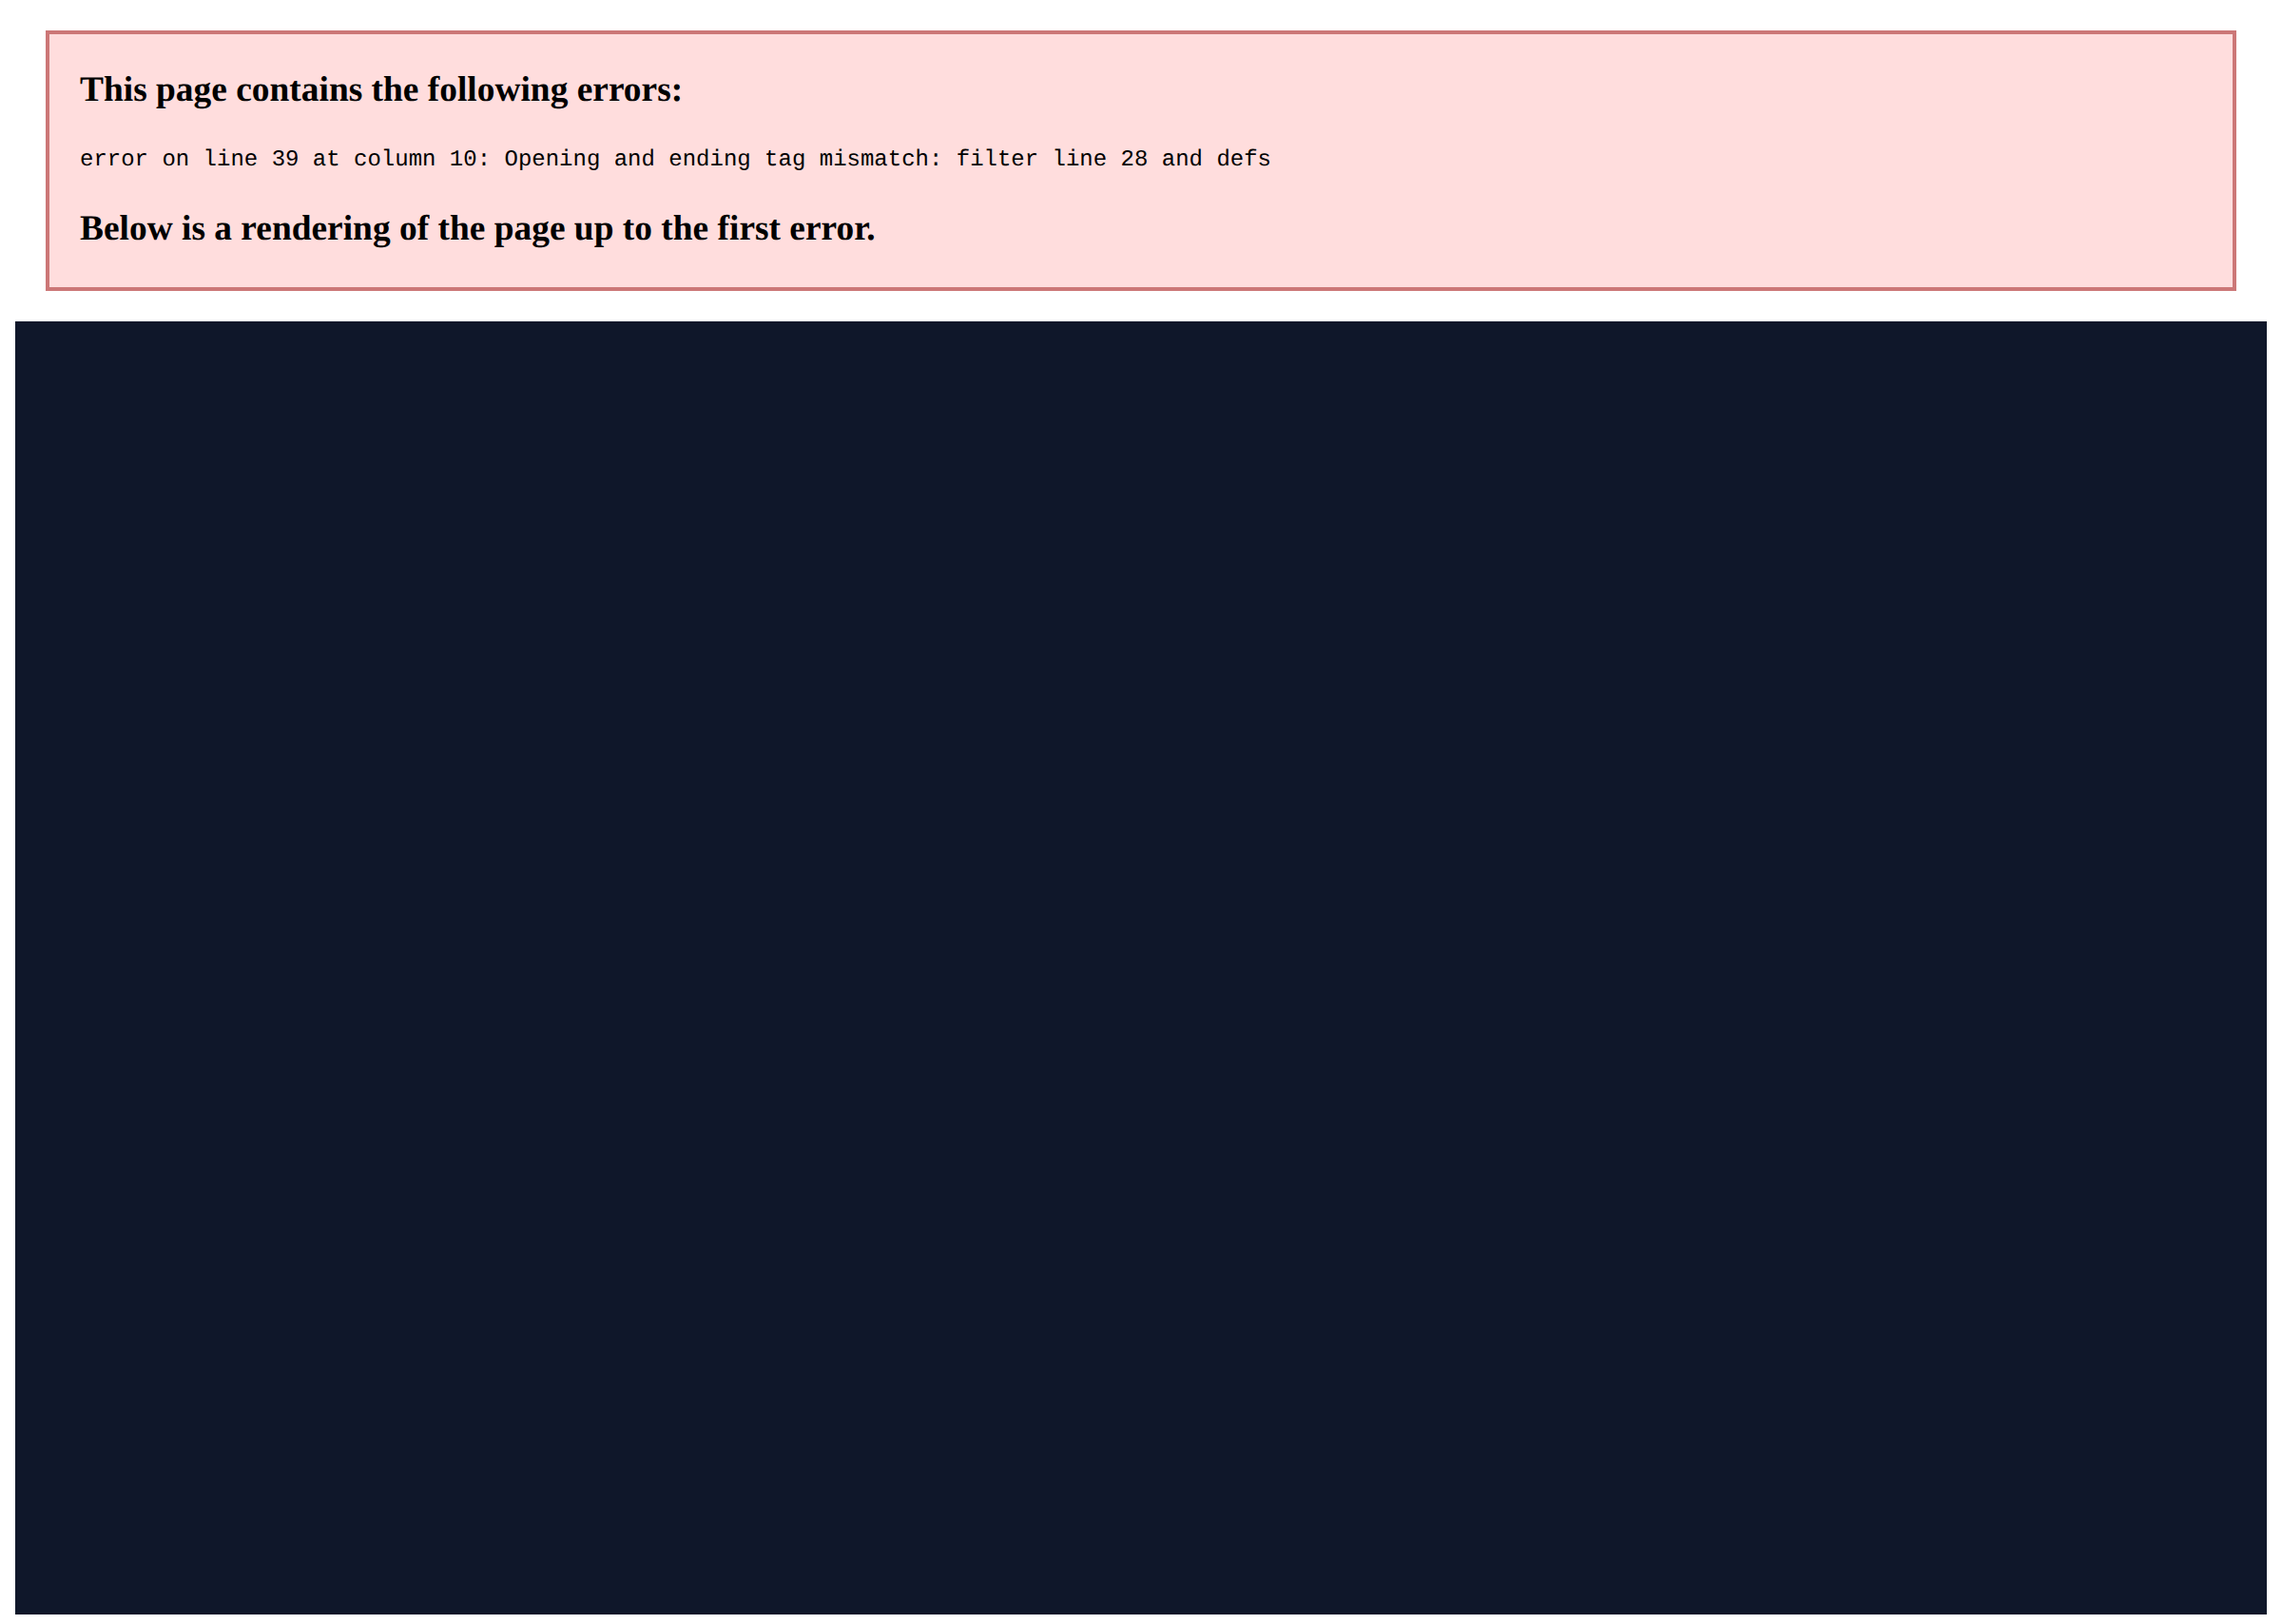
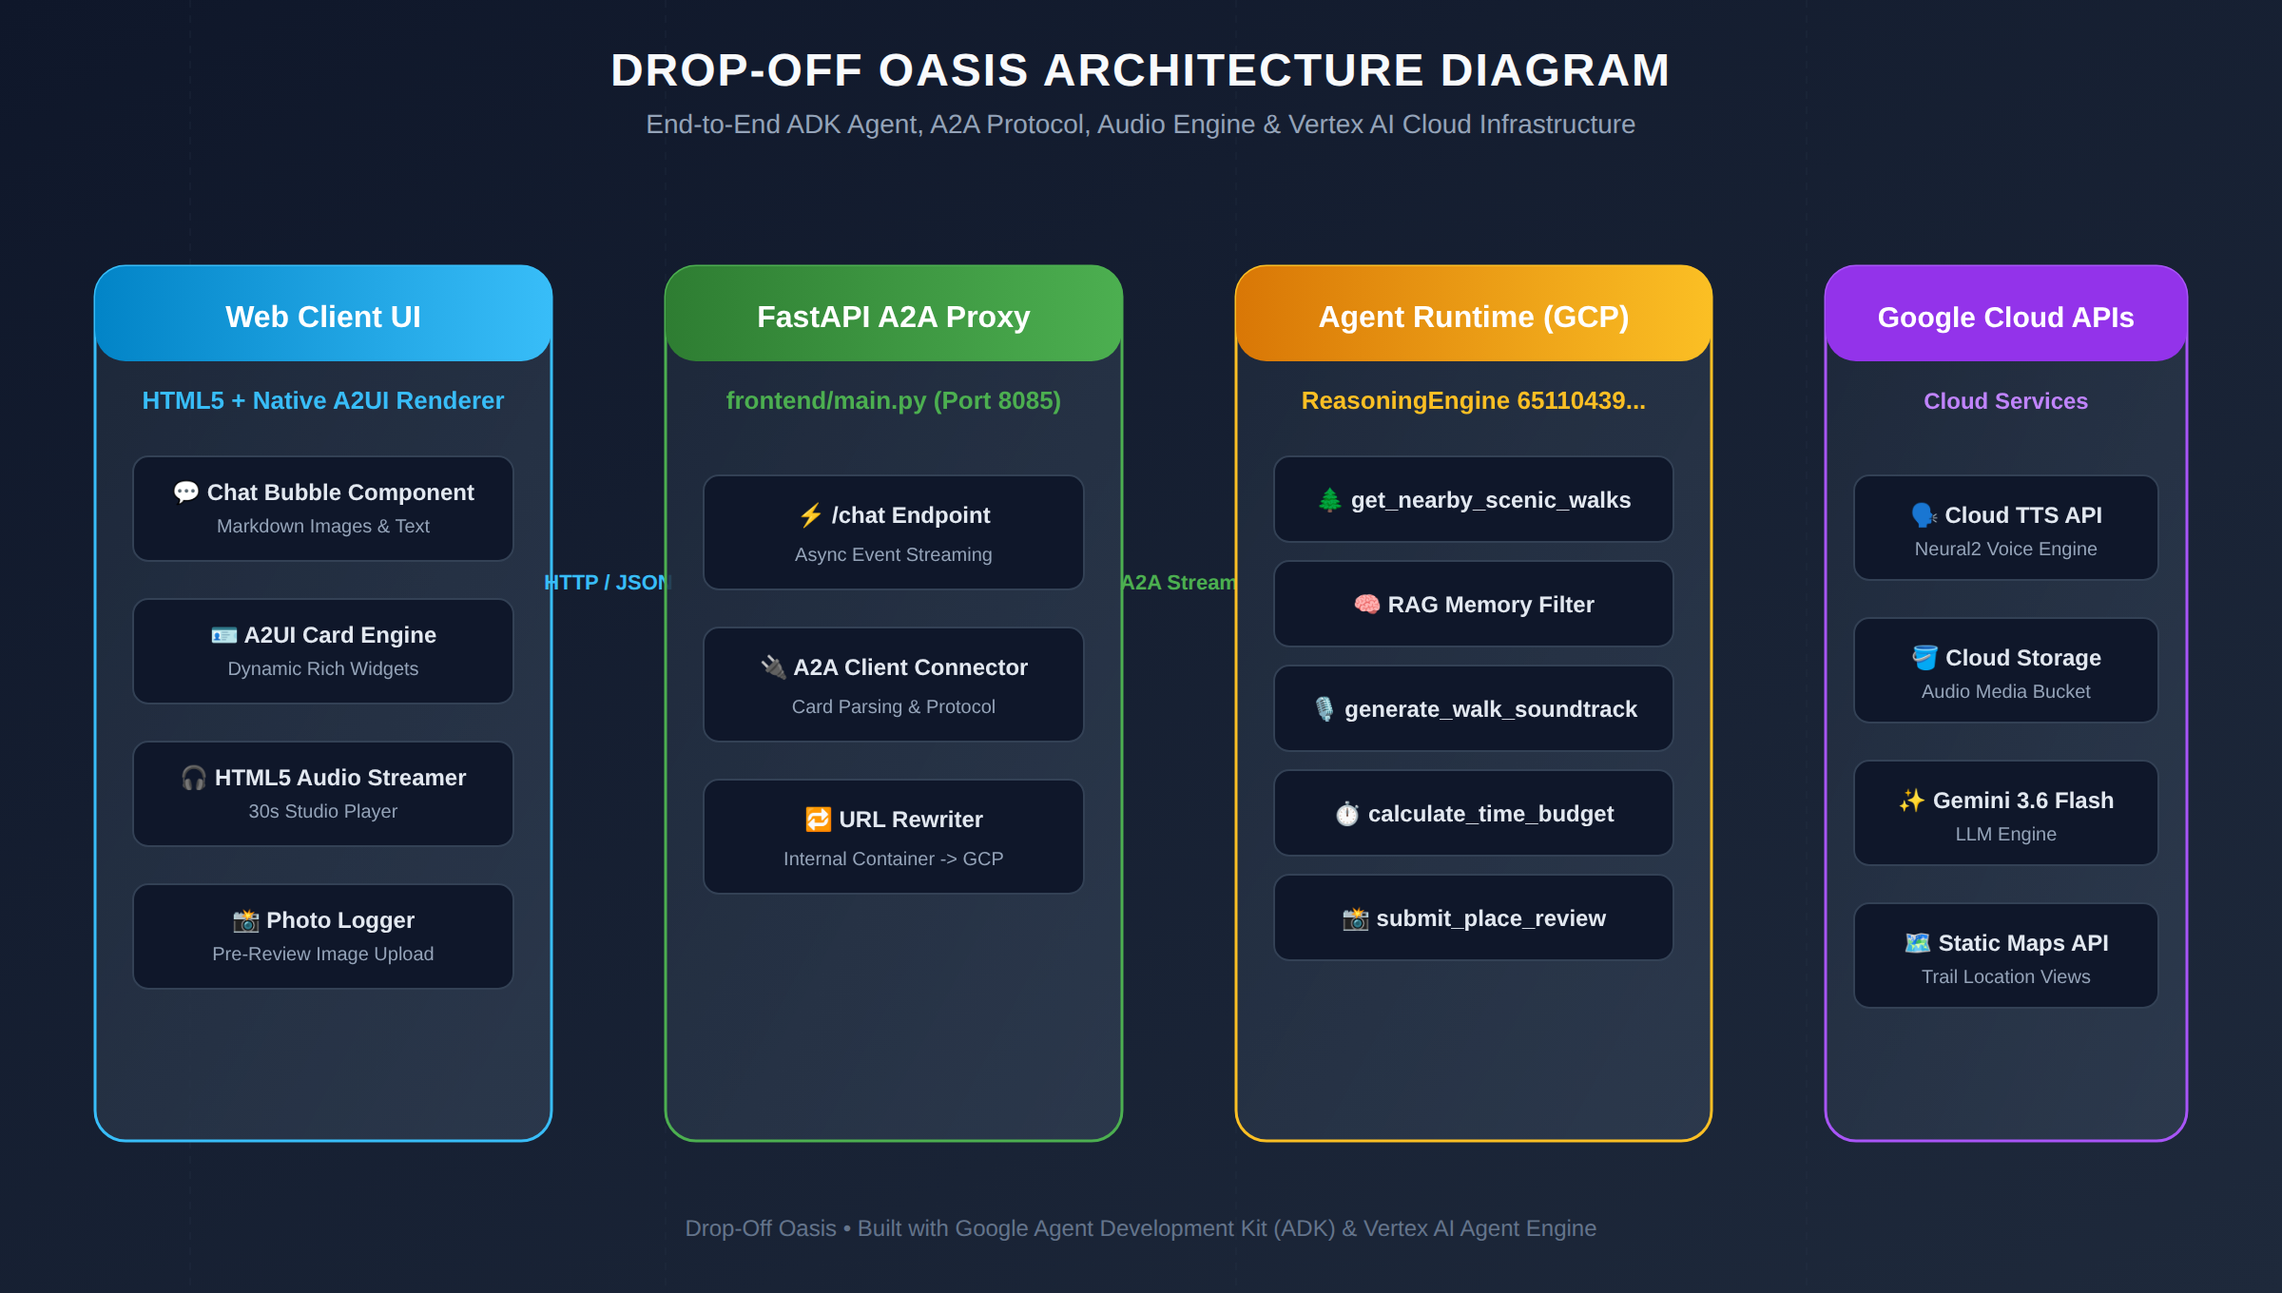
Fix SVG XML syntax errors (line 39 unclosed filter & ampersands) and update HD PNG diagrams & Gemini AI music songs

diff --git a/app/agent.py b/app/agent.py
@@ -247,7 +247,7 @@ def generate_walk_soundtrack(
             "> *ಹಸನ್ಮುಖಿಯಿಂದ ಪ್ರಕೃತಿಯ ಆನಂದಿಸಿ!\"*\n\n"
             "*(Translation: 'A joyful day amidst the forest, walk dancing to the birdsong! Fresh energy at every step, enjoy nature with a glowing smile!')*"
         )
-        audio_url = "https://storage.googleapis.com/drop-off-oasis-media-688258816137/audio/lyria_song_kannada_happy.mp3"
+        audio_url = "https://storage.googleapis.com/drop-off-oasis-media-688258816137/audio/gemini_lyria_song_kannada.mp3"
     elif "hindi" in lang_key or "hi" in lang_key:
         matched_lang = "Hindi"
         lyric_display = (
@@ -258,7 +258,7 @@ def generate_walk_soundtrack(
             "> *प्रकृति संग मनाएं खुशियों का उत्सव!\"*\n\n"
             "*(Translation: 'Every leaf sways in joyful sunshine, this heart sings with a smile! Fresh enthusiasm and energy at every step, celebrate joy with nature!')*"
         )
-        audio_url = "https://storage.googleapis.com/drop-off-oasis-media-688258816137/audio/lyria_song_hindi_happy.mp3"
+        audio_url = "https://storage.googleapis.com/drop-off-oasis-media-688258816137/audio/gemini_lyria_song_hindi.mp3"
     elif "spanish" in lang_key or "es" in lang_key:
         matched_lang = "Spanish"
         lyric_display = (
@@ -268,7 +268,7 @@ def generate_walk_soundtrack(
             "> *¡Camina sonriendo, siente el ritmo de la naturaleza y disfruta del sol!\"*\n\n"
             "*(Translation: 'A radiant day full of joy! Among flowers and breeze we sing with love. Walk smiling, feel nature's rhythm, and enjoy the sun!')*"
         )
-        audio_url = "https://storage.googleapis.com/drop-off-oasis-media-688258816137/audio/lyria_song_spanish_happy.mp3"
+        audio_url = "https://storage.googleapis.com/drop-off-oasis-media-688258816137/audio/gemini_lyria_song_spanish.mp3"
     else:
         matched_lang = "English"
         lyric_display = (
@@ -278,7 +278,7 @@ def generate_walk_soundtrack(
             "> *Smile on your walk, feel the energetic breeze,*\n"
             "> *and enjoy a joyful break among the trees!\"*"
         )
-        audio_url = "https://storage.googleapis.com/drop-off-oasis-media-688258816137/audio/lyria_song_english_acoustic.mp3"
+        audio_url = "https://storage.googleapis.com/drop-off-oasis-media-688258816137/audio/gemini_lyria_song_english.mp3"
 
     return {
         "track_title": f"Custom {matched_lang.title()} Song (Google DeepMind Lyria Model)",
